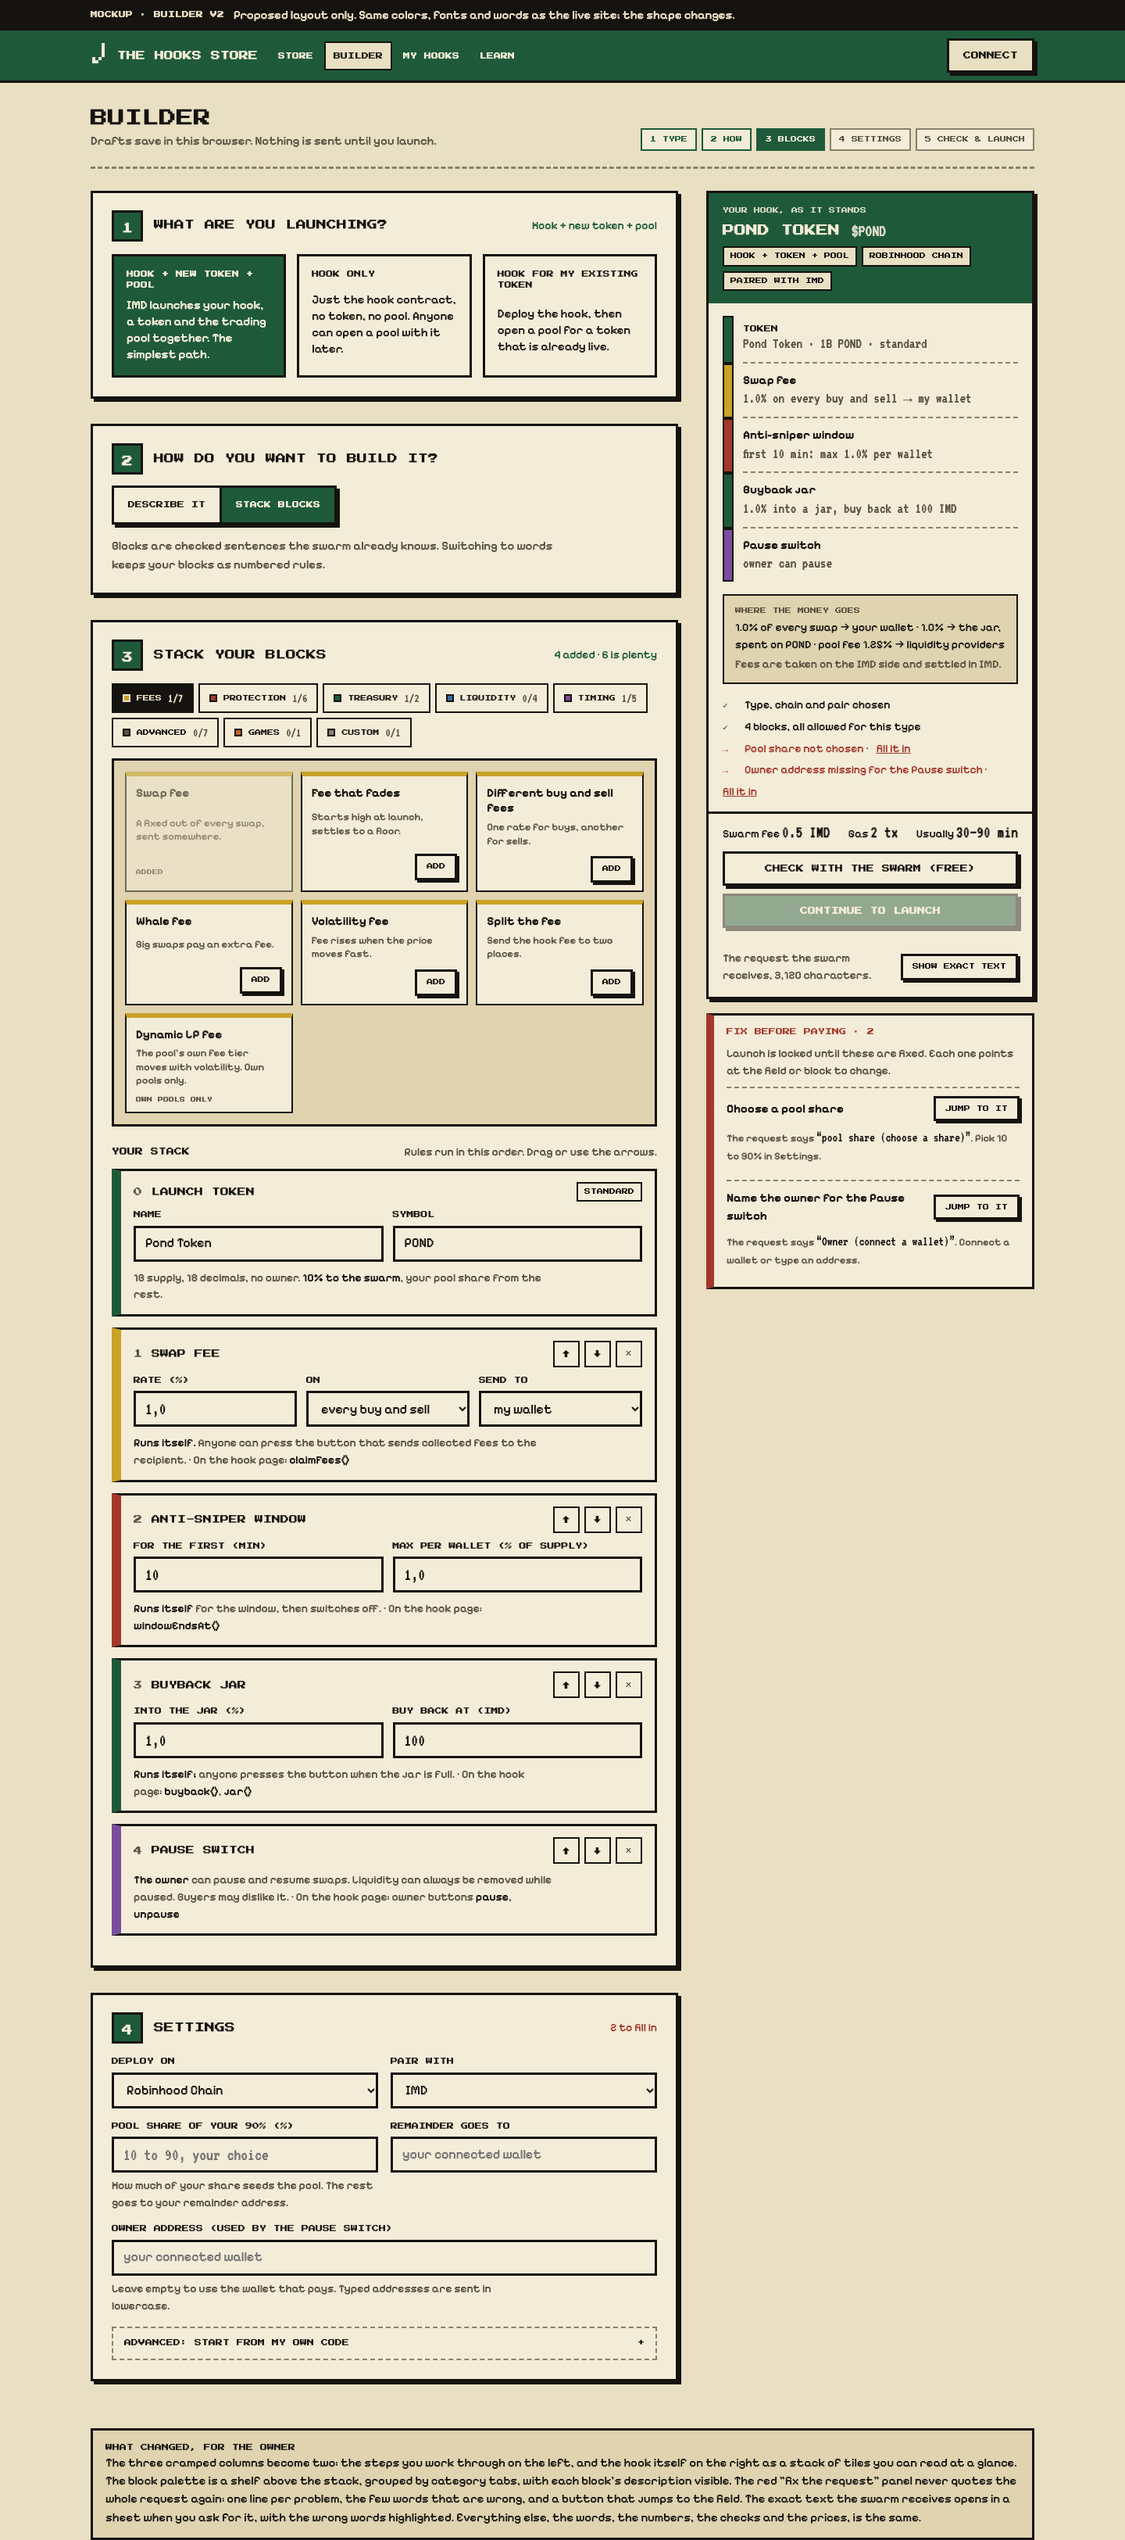
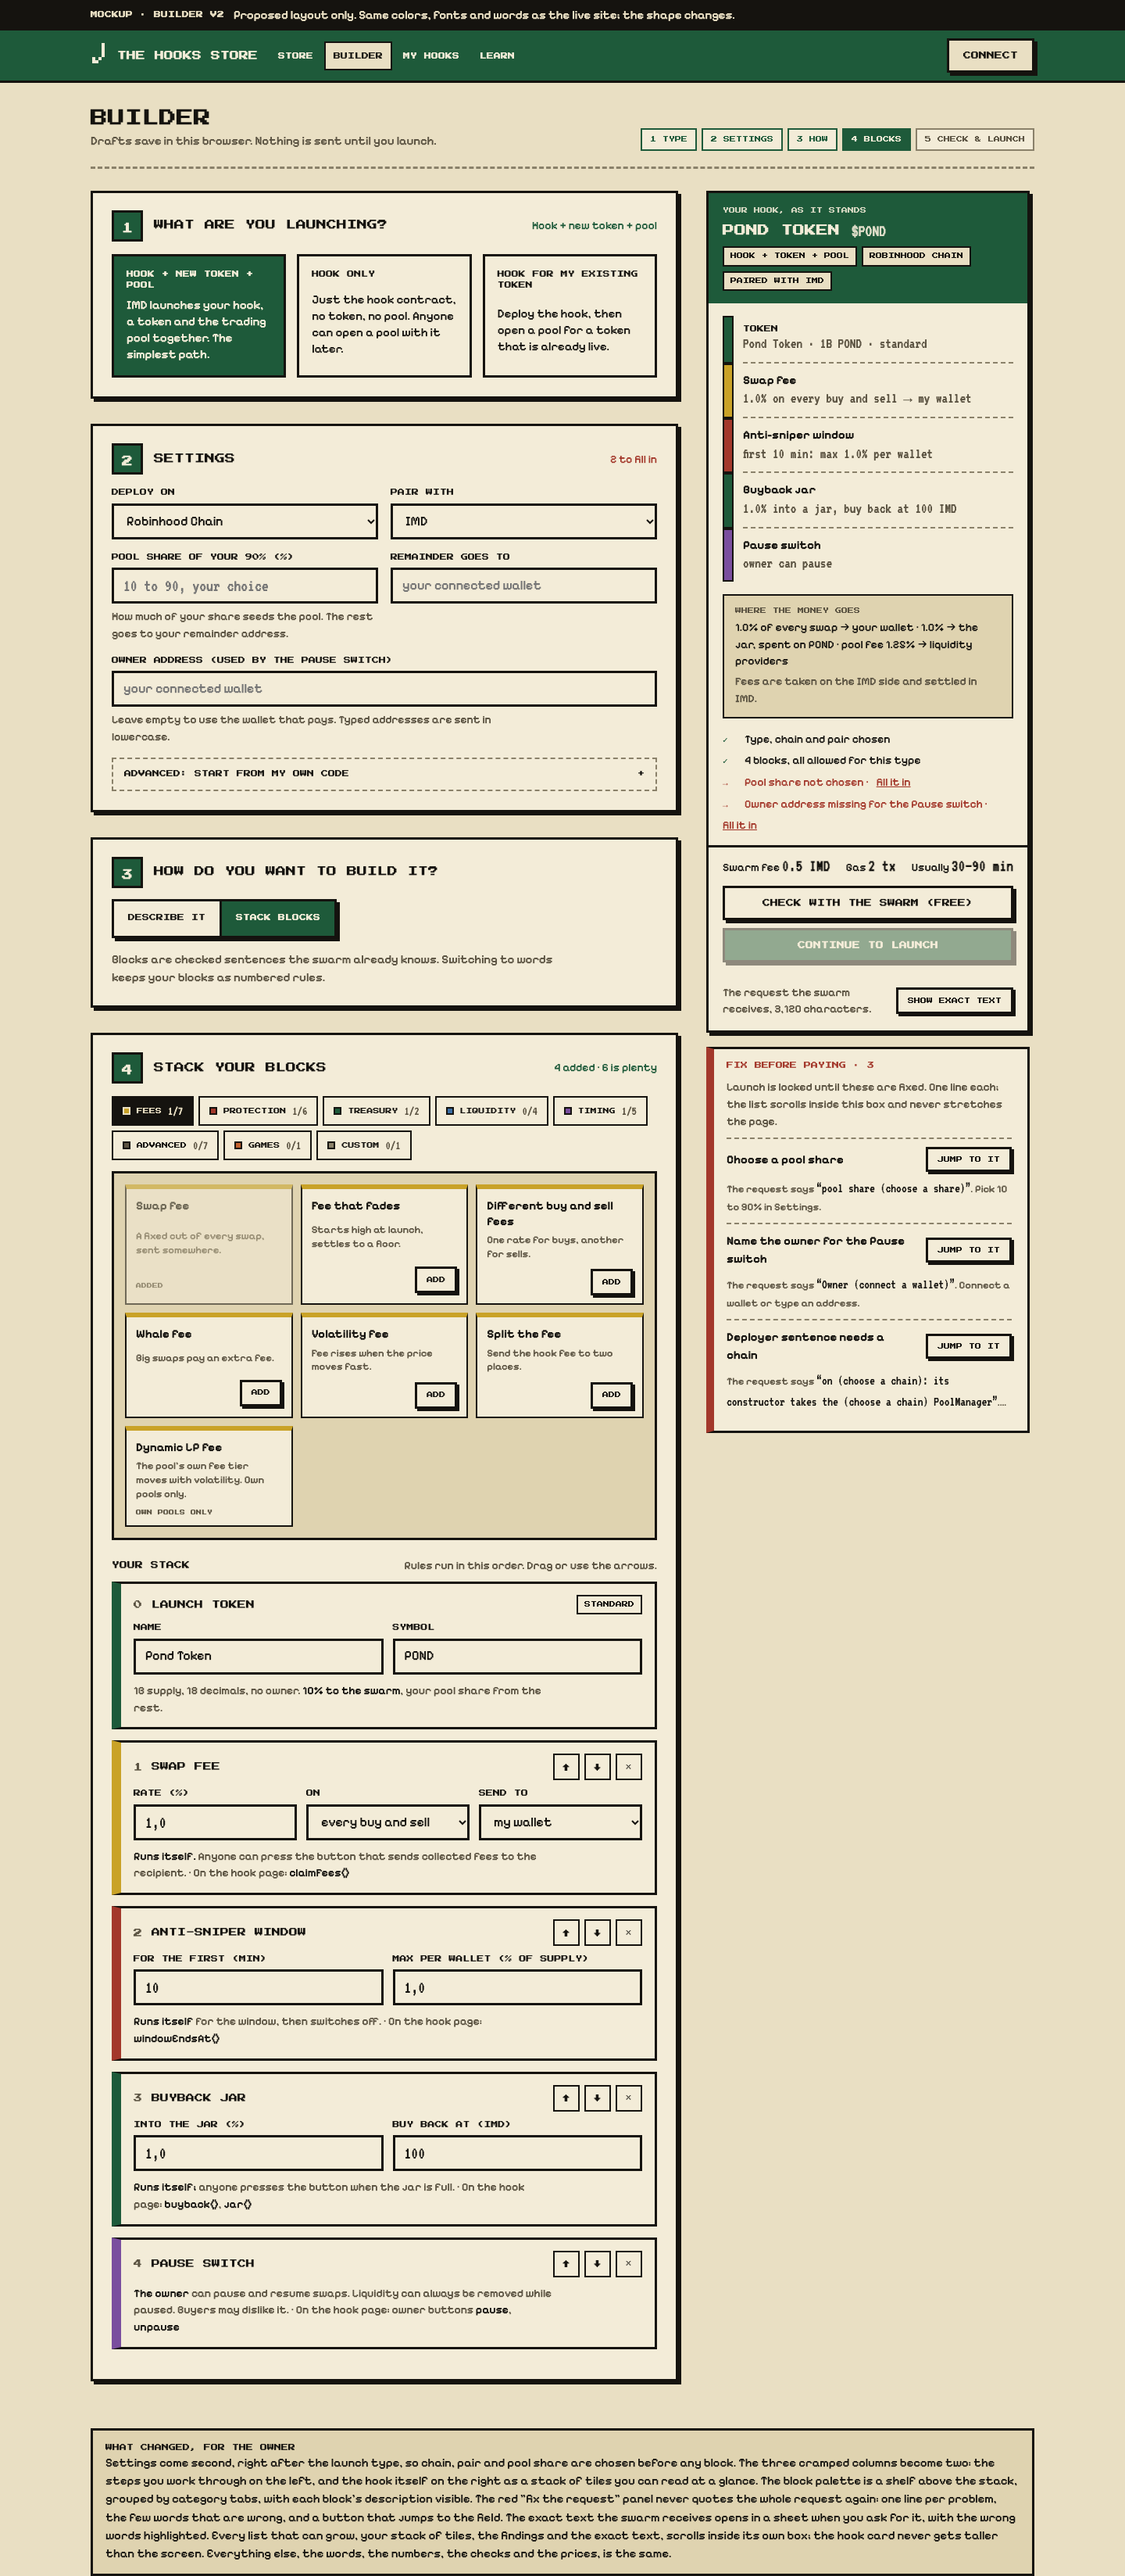
Builder v2 mockup: Settings second, growable lists boxed

Changed region(s): [[0.0625, 0.0, 0.9375, 0.9948]]

diff --git a/mockup/builder-v2.html b/mockup/builder-v2.html
@@ -122,7 +122,7 @@ details.adv summary::-webkit-details-marker { display: none; } details.adv summa
 details.adv > div { padding: 0 14px 14px; }
 
 /* the hook you are making */
-.hookcol { position: sticky; top: 84px; display: grid; gap: 18px; min-width: 0; }
+.hookcol { position: sticky; top: 84px; display: grid; gap: 18px; min-width: 0; max-height: calc(100vh - 100px); overflow: auto; align-content: start; padding: 0 6px 6px 0; }
 .hookcard { background: var(--paper-3); border: 3px solid var(--ink); box-shadow: var(--shadow); padding: 0; overflow: hidden; }
 .hookcard .hc-top { background: var(--pine); color: var(--on-pine); padding: 16px 18px; display: grid; gap: 8px; }
 .hookcard .hc-top .eyebrow { font: 400 8px/1.6 var(--display); opacity: .85; }
@@ -130,7 +130,8 @@ details.adv > div { padding: 0 14px 14px; }
 .hookcard .hc-top .sym { font-family: var(--mono); font-size: 22px; line-height: 1; opacity: .9; }
 .hookcard .hc-pills { display: flex; gap: 6px; flex-wrap: wrap; }
 .hookcard .hc-pills .pill { background: var(--paper); color: var(--ink); border-color: var(--ink); }
-.tiles { padding: 16px 18px 8px; display: grid; gap: 0; }
+.tiles { padding: 16px 18px 8px; display: grid; gap: 0; max-height: 40vh; overflow: auto; min-width: 0; }
+.tile .t strong, .tile .t span { overflow-wrap: anywhere; }
 .tile { display: grid; grid-template-columns: 14px 1fr; gap: 12px; align-items: stretch; }
 .tile i { display: block; background: var(--swatch, var(--ink)); border: 2px solid var(--ink); }
 .tile .t { padding: 10px 0 12px; border-bottom: 2px dashed var(--ink-3); display: grid; gap: 2px; }
@@ -152,11 +153,12 @@ details.adv > div { padding: 0 14px 14px; }
 .exact { display: flex; justify-content: space-between; gap: 10px; align-items: center; padding: 10px 18px 16px; font-size: 14px; color: var(--ink-2); }
 
 /* findings: one line each, never the request text */
-.findings { background: var(--paper-3); border: 3px solid var(--ink); border-left: 10px solid var(--bad); padding: 14px 16px; display: grid; gap: 10px; }
+.findings { background: var(--paper-3); border: 3px solid var(--ink); border-left: 10px solid var(--bad); padding: 14px 16px; display: grid; gap: 10px; min-width: 0; }
+.findings .list { max-height: 36vh; overflow: auto; min-width: 0; padding-right: 4px; }
 .findings h3 { font-size: 9px; color: var(--bad); }
 .findings p.small { color: var(--ink-2); }
 .finding { display: grid; grid-template-columns: 1fr auto; gap: 8px 12px; align-items: center; padding: 10px 0; border-top: 2px dashed var(--ink-3); }
-.finding strong { font-size: 15px; } .finding em { grid-column: 1 / -1; font-style: normal; font-size: 13px; color: var(--ink-2); }
+.finding strong { font-size: 15px; min-width: 0; overflow-wrap: anywhere; } .finding em { grid-column: 1 / -1; font-style: normal; font-size: 13px; color: var(--ink-2); display: -webkit-box; -webkit-line-clamp: 2; -webkit-box-orient: vertical; overflow: hidden; overflow-wrap: anywhere; }
 .finding em q { font-family: var(--mono); font-size: 17px; color: var(--ink); quotes: "\201C" "\201D"; }
 .finding .btn { min-height: 32px; }
 .findings.ok { border-left-color: var(--ok); } .findings.ok h3 { color: var(--ok); }
@@ -174,7 +176,7 @@ dialog pre mark { background: #f6e3a1; color: inherit; outline: 2px solid var(--
 
 @media (max-width: 1100px) {
   .b2 { grid-template-columns: 1fr; gap: 28px; }
-  .hookcol { position: static; order: -1; }
+  .hookcol { position: static; order: -1; max-height: none; overflow: visible; padding: 0; }
   .hookcol .hookcard { box-shadow: var(--shadow); }
 }
 @media (max-width: 720px) {
@@ -199,7 +201,7 @@ dialog pre mark { background: #f6e3a1; color: inherit; outline: 2px solid var(--
 <main class="wrap">
 <div class="head">
   <div><h1>BUILDER</h1><p>Drafts save in this browser. Nothing is sent until you launch.</p></div>
-  <div class="progress" aria-label="Progress"><span class="done">1 TYPE</span><span class="done">2 HOW</span><span class="now">3 BLOCKS</span><span>4 SETTINGS</span><span>5 CHECK &amp; LAUNCH</span></div>
+  <div class="progress" aria-label="Progress"><span class="done">1 TYPE</span><span class="done">2 SETTINGS</span><span class="done">3 HOW</span><span class="now">4 BLOCKS</span><span>5 CHECK &amp; LAUNCH</span></div>
 </div>
 
 <div class="b2">
@@ -214,13 +216,25 @@ dialog pre mark { background: #f6e3a1; color: inherit; outline: 2px solid var(--
     </div>
   </section>
 
+  <section class="step" aria-labelledby="s4">
+    <div class="step-head"><span class="n">2</span><h2 id="s4">SETTINGS</h2><span class="state" style="color:var(--bad)">2 to fill in</span></div>
+    <div class="fields">
+      <div><label for="s-chain">DEPLOY ON</label><select id="s-chain"><option value="">Choose a chain</option><option selected>Robinhood Chain</option><option>Ethereum</option></select></div>
+      <div><label for="s-pair">PAIR WITH</label><select id="s-pair"><option selected>IMD</option><option>ETH</option></select></div>
+      <div><label for="s-pool">POOL SHARE OF YOUR 90% (%)</label><input id="s-pool" type="number" placeholder="10 to 90, your choice" class="num"><p class="hint">How much of your share seeds the pool. The rest goes to your remainder address.</p></div>
+      <div><label for="s-rem">REMAINDER GOES TO</label><input id="s-rem" placeholder="your connected wallet" spellcheck="false"></div>
+      <div class="wide"><label for="s-owner">OWNER ADDRESS (USED BY THE PAUSE SWITCH)</label><input id="s-owner" placeholder="your connected wallet" spellcheck="false"><p class="hint">Leave empty to use the wallet that pays. Typed addresses are sent in lowercase.</p></div>
+    </div>
+    <details class="adv"><summary>ADVANCED: START FROM MY OWN CODE</summary><div><p class="small">Point the swarm at a public GitHub repository with your hook. It is audited as imported code, adapted to the launch, and reviewed before deploying.</p><div class="fields" style="margin-top:12px"><div><label for="s-repo">REPOSITORY URL</label><input id="s-repo" placeholder="https://github.com/you/your-hook"></div><div><label for="s-commit">COMMIT</label><input id="s-commit" placeholder="40-character commit id"></div></div></div></details>
+  </section>
+
   <section class="step" aria-labelledby="s2">
-    <div class="step-head"><span class="n">2</span><h2 id="s2">HOW DO YOU WANT TO BUILD IT?</h2><div class="seg" role="group" aria-label="Builder mode"><button type="button">DESCRIBE IT</button><button type="button" class="on">STACK BLOCKS</button></div></div>
+    <div class="step-head"><span class="n">3</span><h2 id="s2">HOW DO YOU WANT TO BUILD IT?</h2><div class="seg" role="group" aria-label="Builder mode"><button type="button">DESCRIBE IT</button><button type="button" class="on">STACK BLOCKS</button></div></div>
     <p class="mode-note">Blocks are checked sentences the swarm already knows. Switching to words keeps your blocks as numbered rules.</p>
   </section>
 
   <section class="step" aria-labelledby="s3">
-    <div class="step-head"><span class="n">3</span><h2 id="s3">STACK YOUR BLOCKS</h2><span class="state">4 added · 6 is plenty</span></div>
+    <div class="step-head"><span class="n">4</span><h2 id="s3">STACK YOUR BLOCKS</h2><span class="state">4 added · 6 is plenty</span></div>
     <div class="shelf-tabs" role="tablist" aria-label="Block categories">
       <button role="tab" class="on" style="--swatch:var(--fees)"><i></i>FEES <span class="c">1/7</span></button>
       <button role="tab" style="--swatch:var(--protection)"><i></i>PROTECTION <span class="c">1/6</span></button>
@@ -270,17 +284,6 @@ dialog pre mark { background: #f6e3a1; color: inherit; outline: 2px solid var(--
     </div>
   </section>
 
-  <section class="step" aria-labelledby="s4">
-    <div class="step-head"><span class="n">4</span><h2 id="s4">SETTINGS</h2><span class="state" style="color:var(--bad)">2 to fill in</span></div>
-    <div class="fields">
-      <div><label for="s-chain">DEPLOY ON</label><select id="s-chain"><option value="">Choose a chain</option><option selected>Robinhood Chain</option><option>Ethereum</option></select></div>
-      <div><label for="s-pair">PAIR WITH</label><select id="s-pair"><option selected>IMD</option><option>ETH</option></select></div>
-      <div><label for="s-pool">POOL SHARE OF YOUR 90% (%)</label><input id="s-pool" type="number" placeholder="10 to 90, your choice" class="num"><p class="hint">How much of your share seeds the pool. The rest goes to your remainder address.</p></div>
-      <div><label for="s-rem">REMAINDER GOES TO</label><input id="s-rem" placeholder="your connected wallet" spellcheck="false"></div>
-      <div class="wide"><label for="s-owner">OWNER ADDRESS (USED BY THE PAUSE SWITCH)</label><input id="s-owner" placeholder="your connected wallet" spellcheck="false"><p class="hint">Leave empty to use the wallet that pays. Typed addresses are sent in lowercase.</p></div>
-    </div>
-    <details class="adv"><summary>ADVANCED: START FROM MY OWN CODE</summary><div><p class="small">Point the swarm at a public GitHub repository with your hook. It is audited as imported code, adapted to the launch, and reviewed before deploying.</p><div class="fields" style="margin-top:12px"><div><label for="s-repo">REPOSITORY URL</label><input id="s-repo" placeholder="https://github.com/you/your-hook"></div><div><label for="s-commit">COMMIT</label><input id="s-commit" placeholder="40-character commit id"></div></div></div></details>
-  </section>
 
 </div>
 
@@ -311,15 +314,18 @@ dialog pre mark { background: #f6e3a1; color: inherit; outline: 2px solid var(--
   </div>
 
   <div class="findings" aria-labelledby="fx">
-    <h3 id="fx">FIX BEFORE PAYING · 2</h3>
-    <p class="small">Launch is locked until these are fixed. Each one points at the field or block to change.</p>
-    <div class="finding"><strong>Choose a pool share</strong><button class="btn tiny" type="button">JUMP TO IT</button><em>The request says <q>pool share (choose a share)</q>. Pick 10 to 90% in Settings.</em></div>
-    <div class="finding"><strong>Name the owner for the Pause switch</strong><button class="btn tiny" type="button">JUMP TO IT</button><em>The request says <q>Owner (connect a wallet)</q>. Connect a wallet or type an address.</em></div>
+    <h3 id="fx">FIX BEFORE PAYING · 3</h3>
+    <p class="small">Launch is locked until these are fixed. One line each; the list scrolls inside this box and never stretches the page.</p>
+    <div class="list">
+      <div class="finding"><strong>Choose a pool share</strong><button class="btn tiny" type="button">JUMP TO IT</button><em>The request says <q>pool share (choose a share)</q>. Pick 10 to 90% in Settings.</em></div>
+      <div class="finding"><strong>Name the owner for the Pause switch</strong><button class="btn tiny" type="button">JUMP TO IT</button><em>The request says <q>Owner (connect a wallet)</q>. Connect a wallet or type an address.</em></div>
+      <div class="finding"><strong>Deployer sentence needs a chain</strong><button class="btn tiny" type="button">JUMP TO IT</button><em>The request says <q>on (choose a chain): its constructor takes the (choose a chain) PoolManager</q>. Only the few wrong words are shown here, never the paragraph; the exact text sheet highlights them in place.</em></div>
+    </div>
   </div>
 </aside>
 </div>
 
-<div class="note"><b>WHAT CHANGED, FOR THE OWNER</b>The three cramped columns become two: the steps you work through on the left, and the hook itself on the right as a stack of tiles you can read at a glance. The block palette is a shelf above the stack, grouped by category tabs, with each block’s description visible. The red "fix the request" panel never quotes the whole request again: one line per problem, the few words that are wrong, and a button that jumps to the field. The exact text the swarm receives opens in a sheet when you ask for it, with the wrong words highlighted. Everything else, the words, the numbers, the checks and the prices, is the same.</div>
+<div class="note"><b>WHAT CHANGED, FOR THE OWNER</b>Settings come second, right after the launch type, so chain, pair and pool share are chosen before any block. The three cramped columns become two: the steps you work through on the left, and the hook itself on the right as a stack of tiles you can read at a glance. The block palette is a shelf above the stack, grouped by category tabs, with each block’s description visible. The red "fix the request" panel never quotes the whole request again: one line per problem, the few words that are wrong, and a button that jumps to the field. The exact text the swarm receives opens in a sheet when you ask for it, with the wrong words highlighted. Every list that can grow, your stack of tiles, the findings and the exact text, scrolls inside its own box; the hook card never gets taller than the screen. Everything else, the words, the numbers, the checks and the prices, is the same.</div>
 </main>
 
 <dialog id="exact">

diff --git a/jobs/log.md b/jobs/log.md
@@ -295,3 +295,5 @@ Transaction 0x3c524b4550f4e459f63c1173f8fdd1748df2df6eb0be5305c5dc05463c833d8e (
 ## Builder v2 proposed (2026-10-22 06:10 UTC)
 
 The owner asked for a less cramped Builder that lets a user see what they are making, and pointed at the "Fix the request before paying" panel, which quotes the whole request paragraph under each finding. Proposal in mockup/builder-v2.html (artifact https://claude.ai/artifact/PSCf7yJjr1xCqhnrttmHqf, screenshots in mockup/shots/): two zones instead of three columns; the hook as a card of tiles on the right with where the money goes, a readiness list, cost and the two buttons; the palette as a category shelf above the stack with every block's description visible; findings one line each with the few wrong words and a jump button; the exact text in a sheet opened on request with the wrong words highlighted. Same colours, fonts, words and prices. Awaiting the owner's reaction before SPEC 3.2 is rewritten and a job is drafted.
+
+Builder v2, round 2 (06:25 UTC): the owner asked that findings stay inside their own box and never flood the page, that Settings come early, and that nothing drags its container wider. Mockup updated (artifact version 2): Settings is step 2, after the launch type; the findings list, the tile stack and the exact text each scroll inside their own box, with each finding's excerpt clamped to two lines; the hook card never exceeds the screen height. Phone width verified with no horizontal overflow.
